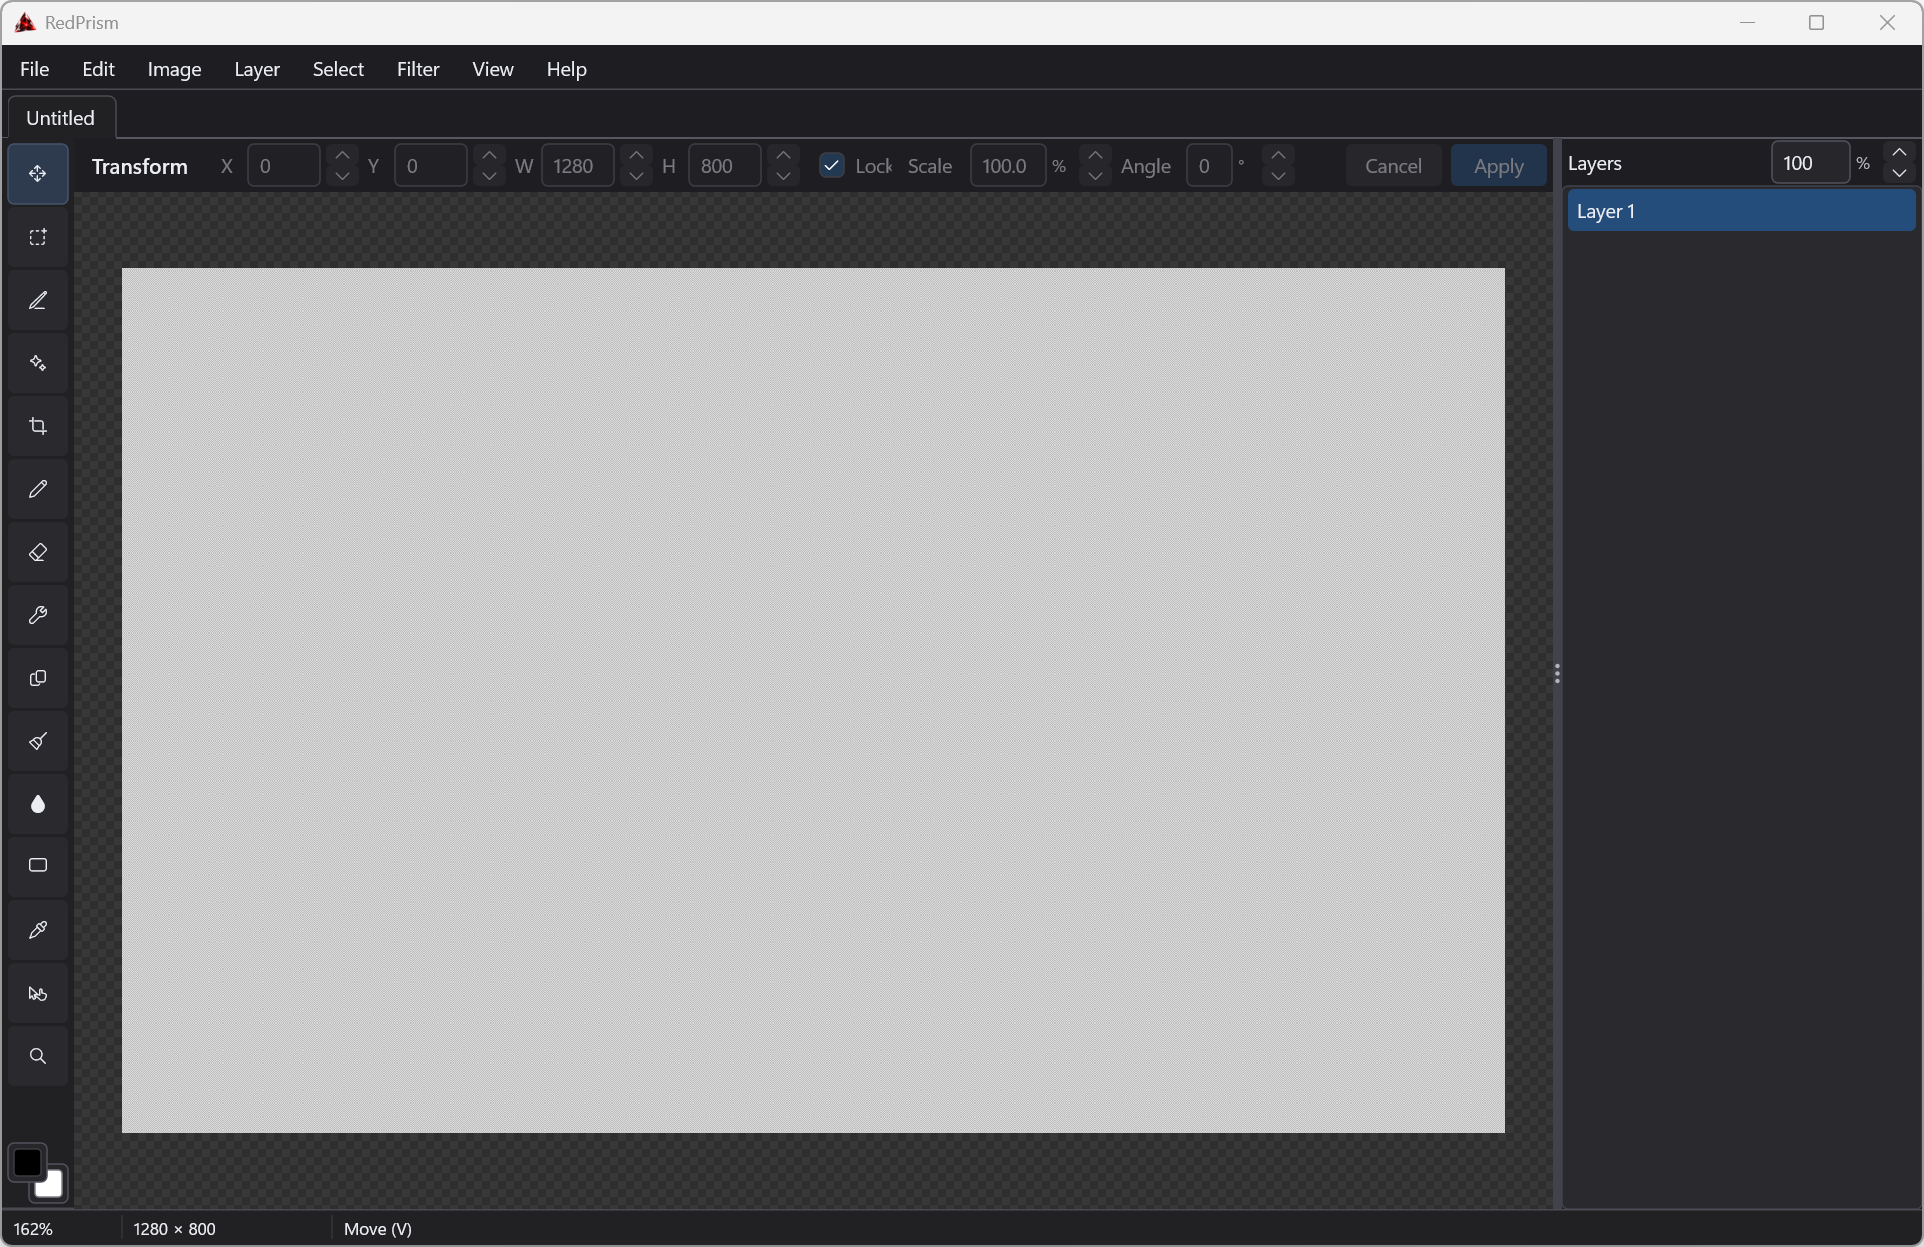
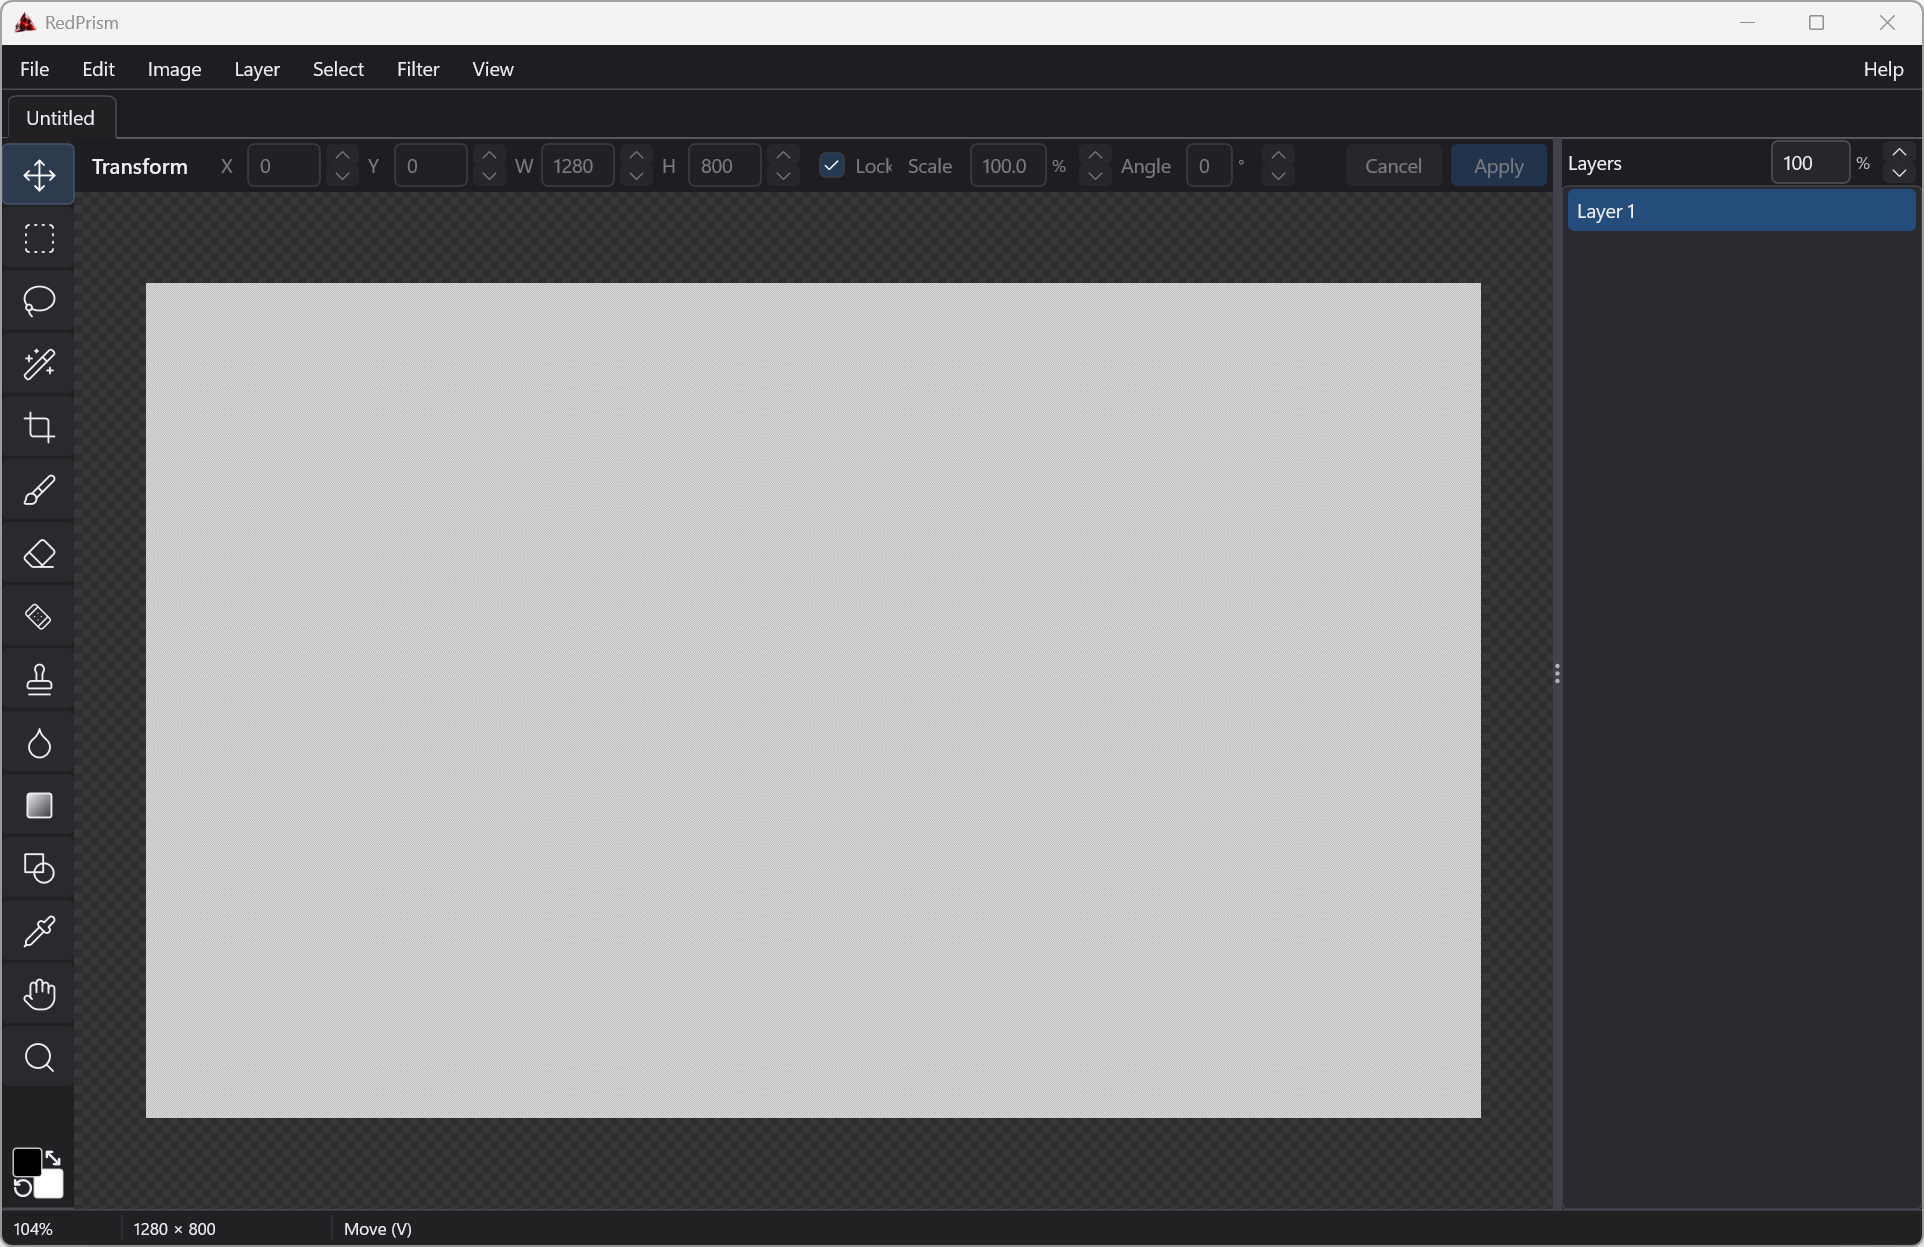
Document the changed behavior and refresh the harness screenshots (RF-1005)
docs/usage.md adds --crash-probe and the exit codes, the Command List and the shortcuts schema, what Save and Export
apply first, the pixel budget, the harness dump folder, the Mask badge and mask commands, the zoom meaning, Space
and held digits. docs/README.md follows. The nine screenshots come from the harness again: the rail's Lucide icons,
the corrected zoom readout at 144 DPI, and the opacity stepper disabled under a panel.

diff --git a/docs/usage.md b/docs/usage.md
@@ -7,11 +7,15 @@ Every switch is declared in `RedPrism/CommandLine.h`. `--help` prints that catal
 | *(none)* | Titled editor window |
 | `--warp` | Microsoft Basic Render Driver |
 | `--self-test` | Hidden WARP smoke (used by `test.ps1`) |
-| `--screenshot <png>` | Capture without activation, then exit |
+| `--screenshot <png>` | Capture without activation, then exit (0 written, 8 capture unsupported, 9 capture failed) |
 | `--dpi 96\|144` | Layout DPI for `--screenshot` |
 | `--demo transform\|selection\|brush\|retouch\|adjust\|canvassize\|crop` | Populate the new document for a `--screenshot` (`canvassize` opens the Canvas Size card, `crop` frames the canvas with the Crop tool) |
 | `--bench brush` | Run the brush benchmark (4K document, 40 and 800 px strokes, blank and opaque layers), print `BRUSH BENCH` lines and exit |
+| `--crash-probe <dir>` | Hidden crash-handler check: crash on purpose and confirm the dump lands in `<dir>` (used by `test.ps1`) |
 | `--help` | Print the catalog and exit 0 |
+
+Exit codes: 0 ok, 1 allocation, 2 command line or window, 5 graphics, 8 screenshot capture unsupported, 9 screenshot
+capture failed.
 
 ## Projects
 
@@ -20,7 +24,9 @@ format versions 1–7. Everything the Mac app stores round-trips: layers and fol
 masks (including masks moved apart from their layer and unlinked masks), clipping masks, adjustment layers with
 their Hue/Saturation, Levels, Curves, Exposure, Gradient Map and Grain settings, and shape metadata. Saving writes
 version 7. A project the app cannot open (unsupported version, damaged metadata, missing image, over the 30 000 px
-/ 100-megapixel limits) is reported and the current document is left untouched.
+/ 100-megapixel limits) is reported and the current document is left untouched. Growing an open document past that
+same 100-megapixel budget while editing (a paste, a duplicate, a new mask, a filter, a merge, a distortion, a
+shape) is refused with a notice the same way, and nothing changes.
 
 ## Images
 
@@ -30,7 +36,9 @@ the file above the active layer (centered where it was dropped when the drop lan
 canvas), or opened as a new project of the image's size (the current project is replaced after the save prompt);
 Import Images… always adds layers. A drop of several images asks once. Close Project
 (Ctrl+W) leaves the window empty until the next New, Open, import or drop. Export PNG (with transparency) or JPEG
-(opaque, quality 0.8) from the File menu.
+(opaque, quality 0.8) from the File menu. Save, Save As and Export apply anything still open first — a typed
+value, a live stroke, a pending gradient or transform, an adjustment panel — so the saved or exported file always
+matches what the canvas shows.
 
 ## Keyboard reference
 
@@ -41,6 +49,7 @@ Import Images… always adds layers. A drop of several images asks once. Close P
 | Ctrl+Z / Ctrl+Shift+Z / Ctrl+Y | Undo, redo |
 | Ctrl+Shift+N / Ctrl+G / Ctrl+Shift+G / Ctrl+J | New layer, new folder, move out of folder, layer via copy (the selection to a new layer, or a duplicate) |
 | Ctrl+] / Ctrl+[ / Ctrl+Alt+G / F2 / Ctrl+E | Move the layer up / down among its siblings, clip it to the layer below (again releases), rename it (double-click its row also does), merge it down onto the layer beneath (a folder merges into one layer) |
+| Click a layer's Mask badge / Shift-click it | Target that layer's mask / turn the mask on or off; click elsewhere on the row to target its pixels again (also on the Layer menu: Target Layer Mask, Target Layer Pixels, Link/Unlink and Enable/Disable Layer Mask; none has a default shortcut) |
 | Enter / Escape | OK / Cancel the open New Canvas, Canvas Size or Image Size card (canvas focused) |
 | Enter / Escape / Alt-drag | Apply / drop the Crop tool's frame; Alt resizes or draws the frame about its center (canvas focused) |
 | Delete | Clear the selected pixels; without a selection delete the targeted mask, or the layer (canvas focused) |
@@ -57,7 +66,7 @@ Import Images… always adds layers. A drop of several images asks once. Close P
 | Enter / Backspace / Escape | Close a polygonal lasso / remove its last corner / drop the outline |
 | Ctrl+A / Ctrl+D / Ctrl+Shift+I | Select all, deselect, inverse |
 | [ / ] and Shift+[ / Shift+] | Brush size down / up by a fifth; hardness down / up by a quarter (brush tools) |
-| 0-9 | Brush opacity 100 %, 10-90 % (two digits within 0.6 s for other percents); the active layer's opacity with the Move tool |
+| 0-9 | Brush opacity 100 %, 10-90 % (two digits within 0.6 s for other percents); the active layer's opacity with the Move tool. Holding a digit sets it once, not repeatedly |
 | Shift-click / Escape | Straight brush line from the last stroke / drop the stroke in progress |
 | Alt-click | Set the Clone Stamp source; with the Brush, Spot Healing or Gradient, sample a color |
 | Ctrl+M / Ctrl+L / Ctrl+U | Curves, Levels, Hue/Saturation on the active layer (the Image menu adds Exposure, Gradient Map, Grain; the Filter menu the blurs, noise and lens correction) |
@@ -67,23 +76,35 @@ Import Images… always adds layers. A drop of several images asks once. Close P
 | Enter / Escape | Apply / drop a pending gradient; Escape also drops a shape draft (canvas focused) |
 | Shift+U | Switch the Shape tool between Rectangle and Ellipse |
 | Alt-drag / Ctrl-drag handle / Shift | Duplicate while moving / distort / constrain an axis, snap rotation to 15°, free the ratio |
-| Ctrl+0 / Ctrl+1 / Ctrl+= / Ctrl+- | Fit, actual pixels, zoom in, zoom out |
-| V M L W C B E J S R G U I H Z A | Tools (canvas focused) |
-| Space (held) | Pan |
+| Ctrl+0 / Ctrl+1 / Ctrl+= / Ctrl+- | Fit, actual pixels, zoom in, zoom out (zoom counts device pixels per document pixel: hard pixel edges from 200 %, a grid from 800 %) |
+| V M L W C B E J S R G U I H Z | Tools (canvas focused) |
+| Space (held) | Pan; types a space in a text field, or presses a control reached by keyboard (Tab) instead |
 | Escape | Focus chrome |
 
 ## Settings, crash reports and languages
 
 RedPrism keeps its settings in `%LocalAppData%\RedPrism\settings.json` (`settings.debug.json` for Debug builds), a
-small JSON document written on exit and readable in any editor: `theme` (`system`, `light`, `dark`), `language`
-(a tag such as `fr-FR`, empty for Windows' display language), `layersPanelWidth`, `sampleRing`, `jpegQuality` and
-the `window` placement. Edits while RedPrism runs apply as you save the file (the theme, the sample ring, the
-panel width, the JPEG quality); the language and the window placement take effect at the next start. A file that
-is not valid JSON is left alone while RedPrism runs; at the next start it is backed up as `settings.json.invalid-…`
-and replaced by the defaults. Windows high contrast overrides the theme while it is on.
+small JSON document written when RedPrism closes or Windows ends the session, and readable in any editor: `theme`
+(`system`, `light`, `dark`), `language` (a tag such as `fr-FR`, empty for Windows' display language),
+`layersPanelWidth`, `sampleRing`, `jpegQuality`, the `window` placement and `shortcuts` (keyboard shortcut
+replacements, below). Edits while RedPrism runs apply as you save the file (the theme, the sample ring, the panel
+width, the JPEG quality, shortcut replacements); the language and the window placement take effect at the next
+start. A file that is not valid JSON is left alone while RedPrism runs; at the next start it is backed up as
+`settings.json.invalid-…` and replaced by the defaults. Windows high contrast overrides the theme while it is on.
+
+Help › Command List (or its search field) finds and runs any command by name and shows its current shortcut. To
+change one, add an entry to the `shortcuts` array, such as `{"commandId": "cmd/edit/swapPalette", "ctrl": true,
+"vk": "X"}`: `commandId` names the command in its `cmd/...` form (as the Command List would), and the key is
+either `vk` (a letter, digit, `F1`-`F24`, a named key such as `Delete`, or `VK_XX`) or `keyPosition`
+(`bracketLeft`, `bracketRight`, `numberRowMinus`, `numberRowPlus`, for chords that follow a physical key, like the
+brush-size keys); `ctrl`, `alt` and `shift` default to false. A later entry for the same command wins, and it also
+takes over that key from whatever else used it. Alt+F4, Alt+Space, F10 and Shift+F10 always stay Windows' own
+gestures and cannot be reassigned.
 
 If RedPrism crashes it writes a minidump to `%LocalAppData%\RedPrism\Crashes` and, at the next start, says so and
-offers to open the folder. Nothing is sent anywhere; the newest ten reports are kept.
+offers to open the folder. Nothing is sent anywhere; the newest ten reports are kept. Diagnostic runs
+(`--self-test`, `--screenshot`, `--demo`, `--bench`) never touch that folder: their crash dumps go to
+`%TEMP%\RedPrism.Harness` instead, and `--crash-probe <dir>` writes its one dump to the directory you give it.
 
 A translated string table goes to `<RedPrism folder>\Languages\<tag>\RedPrism.resources.dll` (a resource-only
 DLL built from `RedPrism/RedPrism.rc` with the same ids); the `language` setting or Windows' display language

diff --git a/docs/README.md b/docs/README.md
@@ -24,18 +24,23 @@ executable is unsigned in this version, so SmartScreen may ask once.
 ## Shell
 
 One window: menu bar, document tab, tool rail with the foreground/background wells, canvas, layers splitter,
-layers panel with the opacity stepper, status strip. New / Open / Save use the common file dialog. Drop a `.prism`
+layers panel with the opacity stepper, status strip. New / Open / Save use the common file dialog; Save, Save As
+and Export apply whatever is still open first — a typed value, a live stroke, a pending gradient or transform, an
+adjustment panel — so the file always matches what the canvas shows. Drop a `.prism`
 package, an exploded project folder, or images onto the window. An image opened or dropped asks whether it becomes
 a layer of the current project or a new project of its own size; a modified project asks to save before it is
-replaced or closed. The menus list every function of the Mac app; one that is not implemented yet says so when
-invoked instead of doing nothing.
+replaced or closed. The menus list every function of the Mac app, and Help › Command List finds and runs any of
+them by name and shows its current shortcut; a function not implemented yet says so when invoked instead of doing
+nothing.
 
 - **Tool rail**: fifteen tools with Photoshop-style keys (V move, M marquee, L lasso, W wand, C crop, B brush,
   E eraser, J heal, S clone, R smear, G gradient, U shape, I eyedropper, H hand, Z zoom). Keys apply
   when the canvas has focus; Escape returns focus to chrome. Hover a button for its name and key.
 - **Palette**: the two wells at the bottom of the rail are the foreground (front) and background (behind) colors.
   Click one to open the color picker (saturation/value field, hue strip, R/G/B, hex); OK or Enter commits, Cancel or
-  Escape restores. X swaps the wells, D resets them to black over white.
+  Escape restores. X swaps the wells, D resets them to black over white. With a layer's mask targeted, the wells
+  show black and white for the mask's paint instead, clicking one opens no picker, and X and D swap or reset which
+  one paints (Black - Hide or White - Reveal).
 - **Layers**: drag the 6 DIP splitter (or use Left/Right, Shift, Home/End while it has focus) to size the panel
   between 160 and 480 DIP; the canvas keeps at least 200 DIP. The title row's stepper edits the active layer's
   opacity (type, Up/Down, buttons) as one undo step.
@@ -51,16 +56,23 @@ invoked instead of doing nothing.
 - **Sizes**: File › New Canvas… asks for a size (an image on the clipboard suggests its own), Image › Canvas Size…
   grows or shrinks the canvas around an anchor in pixels, percent, inches or centimeters (relative or absolute,
   ratio locked or free) with a transparent or colored extension, and Image › Image Size… resamples every layer
-  (nearest, smooth or high quality) or changes only the resolution; each is one undo step.
+  (nearest, smooth or high quality) or changes only the resolution; each is one undo step. Every document keeps to
+  a 100-megapixel budget: an edit that would cross it (a paste, a duplicate, a new mask, a filter, a merge, a
+  distortion, a shape) is declined with a notice instead of failing quietly.
 - **Canvas**: wheel zooms around the cursor, Space or the Hand tool pans, View menu fits (Ctrl+0), shows actual
-  pixels (Ctrl+1) or zooms in/out (Ctrl+= / Ctrl+-). A pixel grid appears from 800 % zoom.
+  pixels (Ctrl+1) or zooms in/out (Ctrl+= / Ctrl+-). Zoom percentages count device pixels per document pixel, so
+  Actual Pixels is always a crisp 1:1 on any display; document pixels render hard-edged from 200 % zoom and a
+  pixel grid appears from 800 %.
 - **Layers**: click a row to select it, click a folder's expander to collapse it. Layer menu adds a layer
   (Ctrl+Shift+N) or folder (Ctrl+G), wraps the active layer in a folder (Group Selected Layers), copies the
   selection or the layer to a new layer (Ctrl+J), renames it (F2, or double-click its row), deletes the active
   layer or its targeted mask (Delete, without a selection), toggles its visibility, moves it up or down among its
   siblings (Ctrl+] / Ctrl+[) or out of its folder (Ctrl+Shift+G), clips it to the layer below or releases the clip
   (Ctrl+Alt+G), merges it down onto the layer beneath (or a folder into one layer; Ctrl+E), or adds a mask (white,
-  or black; from the selection when there is one).
+  or black; from the selection when there is one). A row with a mask shows a `Mask` badge (`Mask off` when
+  disabled); click it to target that layer's mask, or click elsewhere on the row to target its pixels again, and
+  Shift-click it to turn the mask on or off. The Layer menu's Target Layer Mask / Target Layer Pixels, Link /
+  Unlink Layer Mask and Enable / Disable Layer Mask do the same for the active layer (no default shortcuts).
 - **Edit**: Undo (Ctrl+Z) and Redo (Ctrl+Shift+Z or Ctrl+Y) name the step they revert. Cut, Copy, Copy Merged and
   Paste (Ctrl+X, Ctrl+C, Ctrl+Shift+C, Ctrl+V) move pixels between layers and other apps (a paste lands in place as a
   new layer); Fill with the foreground (Alt+Backspace) or background (Ctrl+Backspace) color, Clear Selection Pixels
@@ -68,14 +80,16 @@ invoked instead of doing nothing.
 - **Selection**: the Marquee (M, rectangle or ellipse), Lasso (L, freehand or polygonal) and Magic Wand (W) draw
   outlines; Shift adds, Alt subtracts, dragging inside a selection moves it, the header expands or contracts it, and
   the Select menu selects all (Ctrl+A), deselects (Ctrl+D), inverts (Ctrl+Shift+I) or loads a layer's pixels or a
-  mask as the selection. Ctrl-drag inside a selection moves its pixels (Alt duplicates), Ctrl+arrows nudge them,
+  mask as the selection (and says so instead of silently loading nothing when the outline would be too detailed to
+  trace). Ctrl-drag inside a selection moves its pixels (Alt duplicates), Ctrl+arrows nudge them,
   Ctrl+T transforms them on a floating layer that merges back, Layer via Copy (Ctrl+J) copies them to a layer, and
   Add Mask or Add Black Mask on the Layer menu turns the selection into a mask.
 - **Brush and Eraser**: B paints with the foreground color, E erases (the Brush's header also has an Erase mode).
   The header sets the size, hardness and opacity; `[` and `]` step the size, Shift-`[` and Shift-`]` the hardness,
-  digits the opacity. Shift-click draws a straight line from the last stroke. With a layer mask selected the brush
-  paints it black (hide) or white (reveal). Strokes show as you draw and commit on release as one undo step that
-  shares every untouched tile with the previous state.
+  digits set the opacity (holding one sets it once, not repeatedly). Shift-click draws a straight line from the
+  last stroke. With a layer mask selected the brush paints it black (hide) or white (reveal). Strokes show as you
+  draw and commit — on release, or if the window loses focus or the pointer's capture before you let go — as one
+  undo step that shares every untouched tile with the previous state.
 - **Retouch**: Spot Healing (J) blends a blemish into its surroundings (Content-Aware, Create Texture or Proximity
   Match); Clone Stamp (S) copies from an Alt-clicked source, aligned or not, from this layer or all layers; Smear
   (R) liquifies, blurs or smudges; Gradient (G) drags a linear or radial fill that previews until Enter or Apply;
@@ -89,9 +103,9 @@ invoked instead of doing nothing.
   Photoshop. Edit › Content-Aware Fill (Shift+Delete) fills a selection from the surrounding pixels of the layer,
   growing the layer when the selection reaches past its edge; the panel says when nothing opaque surrounds it.
 - **Settings, reports, access**: a JSON settings file under `%LocalAppData%\RedPrism` applies live as you edit
-  it (theme, sample ring, panel width, JPEG quality) and remembers the window; a crash leaves a local minidump
-  and the next start says where (nothing is uploaded); the chrome follows Windows high contrast and exposes every
-  control to UI Automation with a name; a `Languages\<tag>` satellite table translates the chrome.
+  it (theme, sample ring, panel width, JPEG quality, keyboard shortcuts) and remembers the window; a crash leaves a
+  local minidump and the next start says where (nothing is uploaded); the chrome follows Windows high contrast and
+  exposes every control to UI Automation with a name; a `Languages\<tag>` satellite table translates the chrome.
 
 Empty-document harness captures:
 
